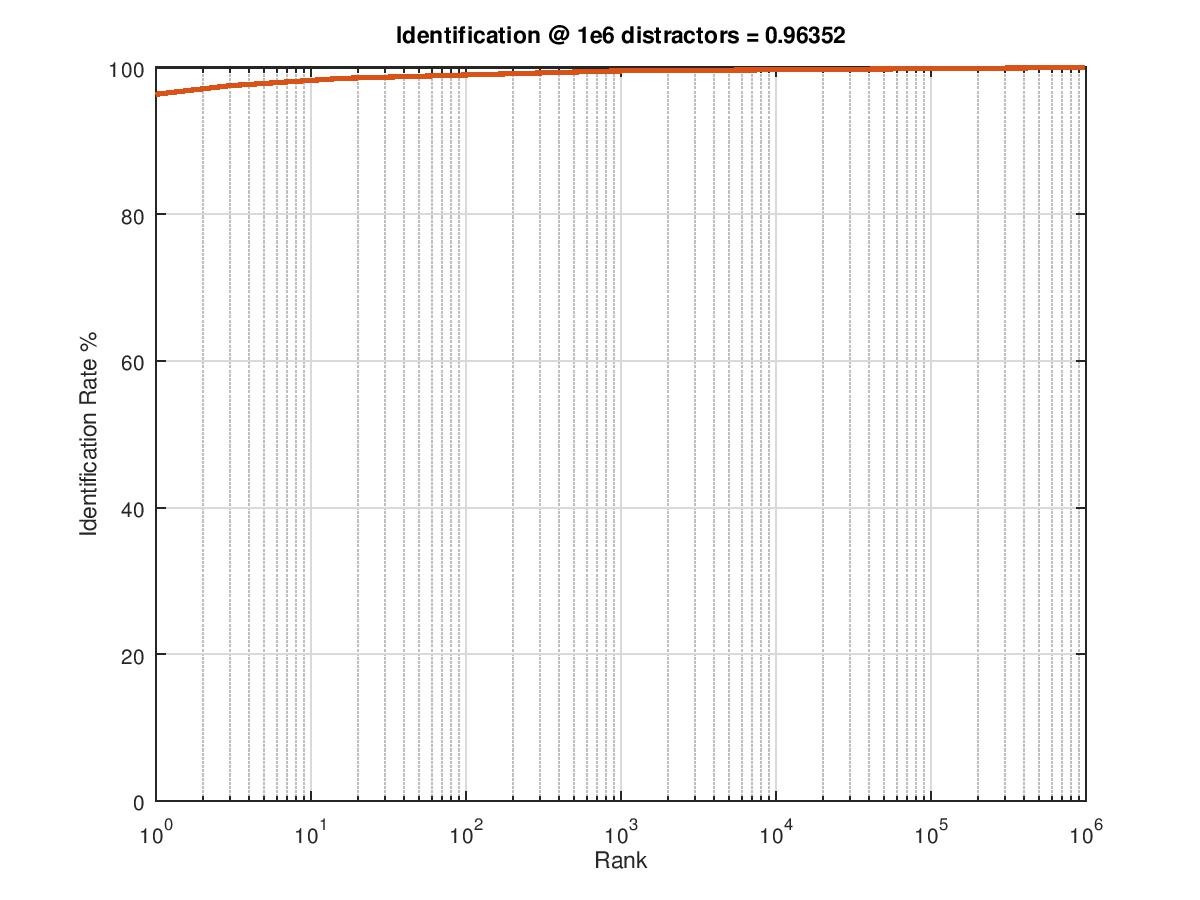
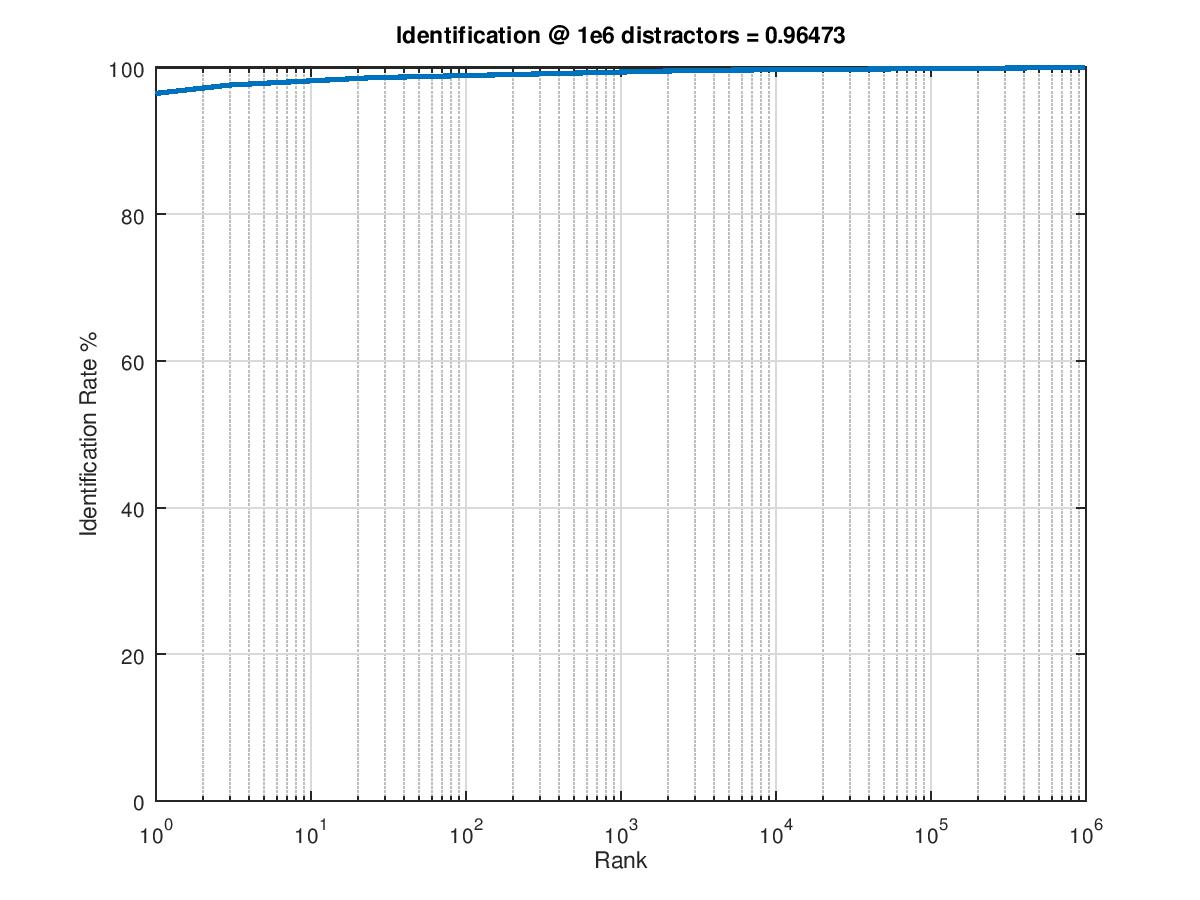
update

Changed region(s): [[0.2158, 0.0311, 0.8942, 0.0933], [0.1233, 0.0933, 0.2158, 0.1244]]

diff --git a/megaface/draw_curve.m b/megaface/draw_curve.m
@@ -12,7 +12,7 @@ semilogx(facescrub_cmc_json.cmc(1,:)+1,facescrub_cmc_json.cmc(2,:)*100,'LineWidt
 title(['Identification @ 1e6 distractors = ' num2str(facescrub_cmc_json.cmc(2,:)(1))]);
 xlabel('Rank');
 ylabel('Identification Rate %');
-%ylim([0 100]);
+ylim([0 100]);
 grid on;
 box on;
 hold on;

diff --git a/README.md b/README.md
@@ -132,15 +132,14 @@ See also [LFW Face Database Errata](http://vis-www.cs.umass.edu/lfw/index.html#e
  
 MegaFace dataset includes 1,027,060 faces, 690,572 identities. [Link](http://megaface.cs.washington.edu/)
  
-Challenge 1 is taken to test our method with 1 million distractors. 
+Challenge 1 is taken to test our model with 1 million distractors. 
 
 ![image](https://github.com/foamliu/InsightFace-v2/raw/master/images/megaface_stats.png)
  
 #### Download
 
 1. Download MegaFace and FaceScrub Images
-2. Download Linux DevKit
-Download Linux DevKit from [MagaFace WebSite](http://megaface.cs.washington.edu/) then extract to megaface folder:
+2. Download Linux DevKit from [MagaFace WebSite](http://megaface.cs.washington.edu/) then extract to megaface folder:
 
 ```bash
 $ tar -vxf linux-devkit.tar.gz
